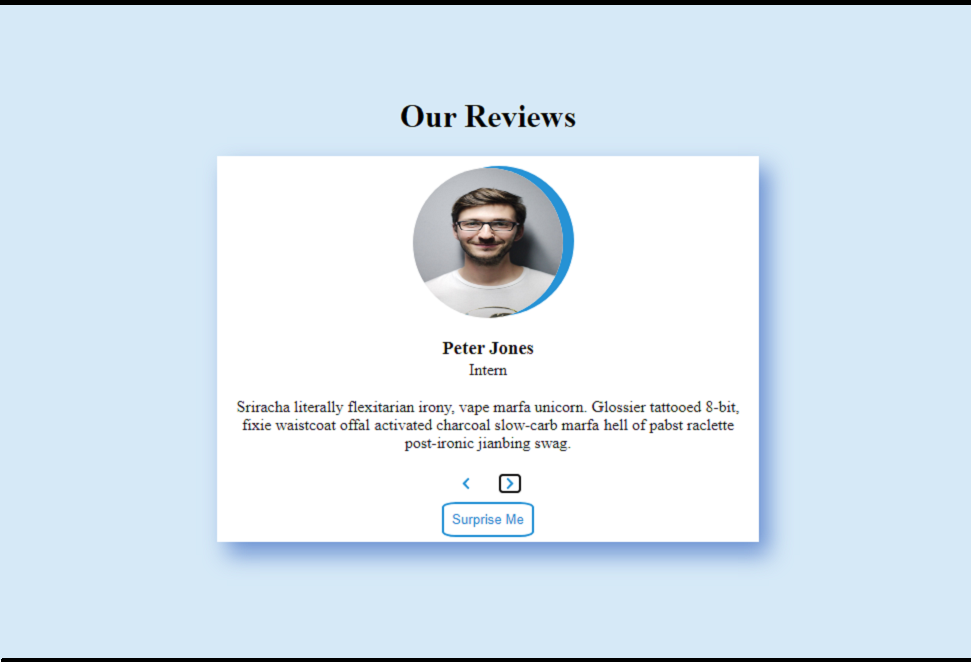
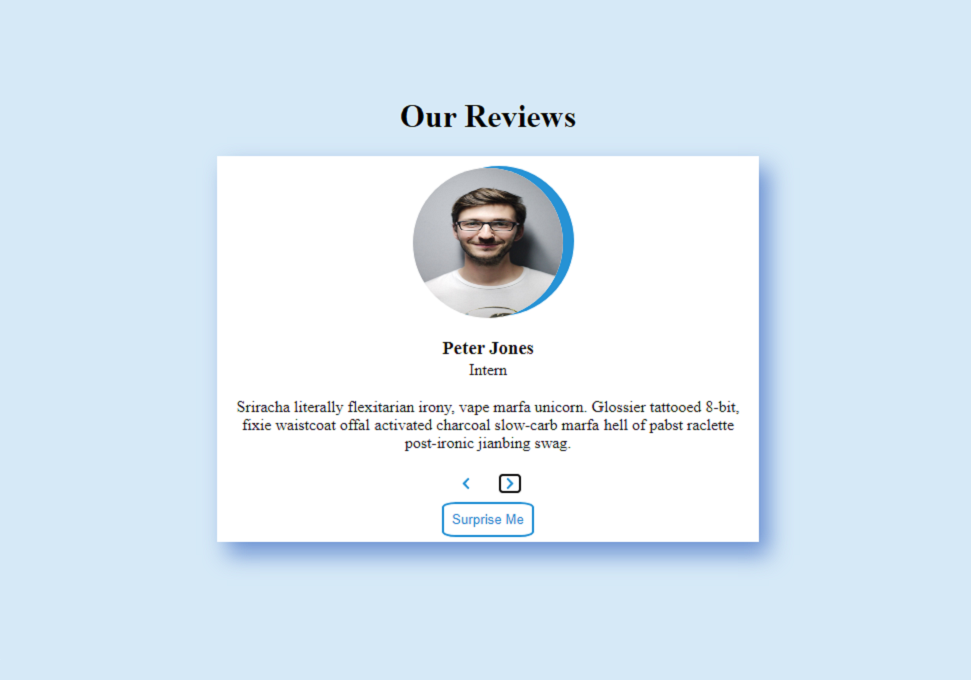
button removed and redirect added on image

Changed region(s): [[0.2163, 0.1511, 0.8033, 0.8761], [0.0, 0.997, 1.0, 1.0], [0.0, 0.0, 1.0, 0.0302]]

diff --git a/index.html b/index.html
@@ -58,7 +58,7 @@
     </section>
     <section id="about" class="container mt-5">
         <div class="row">
-            
+
             <div class="col col-6 my-auto about">
                 <div class="aboutSection overflow-auto">
                     <h2 class="aboutHeader mx-auto">About Us</h2>
@@ -68,12 +68,12 @@
                         will help you learn each and every basic concept of Javascript and you will keep a strong hold
                         on
                         Javascript </p>
-                    </div>
-                </div>
-                <div class="col col-6 my-auto">
-                    <img src="assets/Images/about.svg" class="aboutUsImg img-fluid" alt="">
                 </div>
             </div>
+            <div class="col col-6 my-auto">
+                <img src="assets/Images/about.svg" class="aboutUsImg img-fluid" alt="">
+            </div>
+        </div>
     </section>
 
 
@@ -84,78 +84,85 @@
         <div class="container border py-4">
             <div class="row row-cols-3">
                 <div class="card my-3 mx-auto col cardStyle">
-                    <img class="card-img-top" src="assets/Images/Note app.PNG" alt="Card image cap">
+                    <button onclick="noteapp()">
+                        <img class="card-img-top" src="assets/Images/Note app.PNG" alt="Card image cap">
+                    </button>
                     <div class="card-body text-center">
                         <h5 class="card-title">Note app</h5>
                         <!-- <p class="card-text">Some quick example text to build on the card title and make up the bulk of
                             the
                             card's content.</p> -->
-                        <a href="./public/note-app.html" class="visitbutton">Visit</a>
                     </div>
                 </div>
 
                 <div class="card my-3 mx-auto col cardStyle">
-                    <img class="card-img-top" src="assets/Images/Calculator.PNG" alt="Card image cap">
+                    <button onclick="calculator()">
+                        <img class="card-img-top" src="assets/Images/Calculator.PNG" alt="Card image cap">
+                    </button>
                     <div class="card-body text-center">
                         <h5 class="card-title">Calculator</h5>
                         <!-- <p class="card-text">Some quick example text to build on the card title and make up the bulk of
                             the
                             card's content.</p> -->
-                        <a href="./public/calculator.html" class="visitbutton ">Visit</a>
                     </div>
                 </div>
 
                 <div class="card my-3 mx-auto col cardStyle">
-                    <img class="card-img-top" src="assets/Images/Color flipper.PNG" alt="Card image cap">
+                    <button onclick="colorflipper()">
+                        <img class="card-img-top" src="assets/Images/Color flipper.PNG" alt="Card image cap">
+                    </button>
                     <div class="card-body text-center">
                         <h5 class="card-title">Color Flipper</h5>
                         <!-- <p class="card-text">Some quick example text to build on the card title and make up the bulk of
                             the
                             card's content.</p> -->
-                        <a href="./public/color-flipper.html" class="visitbutton">Visit</a>
                     </div>
                 </div>
 
                 <div class="card my-3 mx-auto col cardStyle">
-                    <img class="card-img-top" src="assets/Images/Counter.PNG" alt="Card image cap">
+                    <button onclick="counter()">
+                        <img class="card-img-top" src="assets/Images/Counter.PNG" alt="Card image cap">
+                    </button>
                     <div class="card-body text-center">
                         <h5 class="card-title">Counter</h5>
                         <!-- <p class="card-text">Some quick example text to build on the card title and make up the bulk of
                             the
                             card's content.</p> -->
-                        <a href="./public/counter.html" class="visitbutton">Visit</a>
                     </div>
                 </div>
 
                 <div class="card my-3 mx-auto col cardStyle">
-                    <img class="card-img-top" src="assets/Images/BouncingBalls.PNG" alt="Card image cap">
+                    <button onclick="bouncing()">
+                        <img class="card-img-top" src="assets/Images/BouncingBalls.PNG" alt="Card image cap">
+                    </button>
                     <div class="card-body text-center">
                         <h5 class="card-title">Bouncing Balls</h5>
                         <!-- <p class="card-text">Some quick example text to build on the card title and make up the bulk of
                             the
                             card's content.</p> -->
-                        <a href="./public/BouncingBalls.html" class="visitbutton">Visit</a>
                     </div>
                 </div>
                 <div class="card my-3 mx-auto col cardStyle">
-                    <img class="card-img-top" src="assets/Images/Reviews.PNG" alt="Card image cap">
+                    <button onclick="review()">
+                        <img class="card-img-top" src="assets/Images/Reviews.PNG" alt="Card image cap">
+                    </button>
                     <div class="card-body text-center">
                         <h5 class="card-title">Reviews</h5>
                         <!-- <p class="card-text">Some quick example text to build on the card title and make up the bulk of
                             the
                             card's content.</p> -->
-                        <a href="./public/reviews.html" class="visitbutton">Visit</a>
                     </div>
                 </div>
             </div>
             <div class="card my-3 mx-auto col cardStyle">
-                <img class="card-img-top" src="assets/Images/StopWatch.png" alt="Card image cap">
+                <button onclick="stopwatch()">
+                    <img class="card-img-top" src="assets/Images/StopWatch.png" alt="Card image cap">
+                </button>
                 <div class="card-body text-center">
                     <h5 class="card-title">Stop Watch</h5>
                     <!-- <p class="card-text">Some quick example text to build on the card title and make up the bulk of
                         the
                         card's content.</p> -->
-                    <a href="./public/StopWatch.html" class="visitbutton">Visit</a>
                 </div>
             </div>
         </div>
@@ -169,7 +176,7 @@
         </div>
         <!-- Copyright -->
     </footer>
-
+    <script src="./assets/js/index.js"></script>
     <script src="https://cdn.jsdelivr.net/npm/bootstrap@5.0.0-beta1/dist/js/bootstrap.bundle.min.js"
         integrity="sha384-ygbV9kiqUc6oa4msXn9868pTtWMgiQaeYH7/t7LECLbyPA2x65Kgf80OJFdroafW"
         crossorigin="anonymous"></script>

diff --git a/assets/js/index.js b/assets/js/index.js
@@ -1,0 +1,28 @@
+function noteapp(){
+    window.location="/public/note-app.html";
+}
+
+function calculator(){
+    window.location="/public/calculator.html";
+}
+
+function colorflipper(){
+    window.location="/public/color-flipper.html";
+}
+
+function counter(){
+    window.location="/public/counter.html";
+}
+
+function bouncing(){
+    window.location="/public/BouncingBalls.html";
+}
+
+function review(){
+    window.location="/public/reviews.html";
+}
+
+function stopwatch(){
+    window.location="/public/StopWatch.html";
+}
+

diff --git a/assets/css/style.css b/assets/css/style.css
@@ -54,21 +54,6 @@
     background-color: rgba(14, 13, 13, 0.2);
 }
 
-/* visit button */
-.visitbutton{
-    color:#12013a;
-    font-weight:550;
-    padding:6px 18px;
-    border-radius: 20px;
-    text-decoration: none;
-    letter-spacing: 2px;
-    text-transform:uppercase;
-    background:linear-gradient(90deg,#671fee,#acc2eb);
-}
-.visitbutton:hover{
-    color:#fcfcfc;
-    background:linear-gradient(90deg,#f18383,#671fee);
-}
 /* Media Queries */
 @media only screen and (max-width: 768px) {
     /* For mobile phones: */
